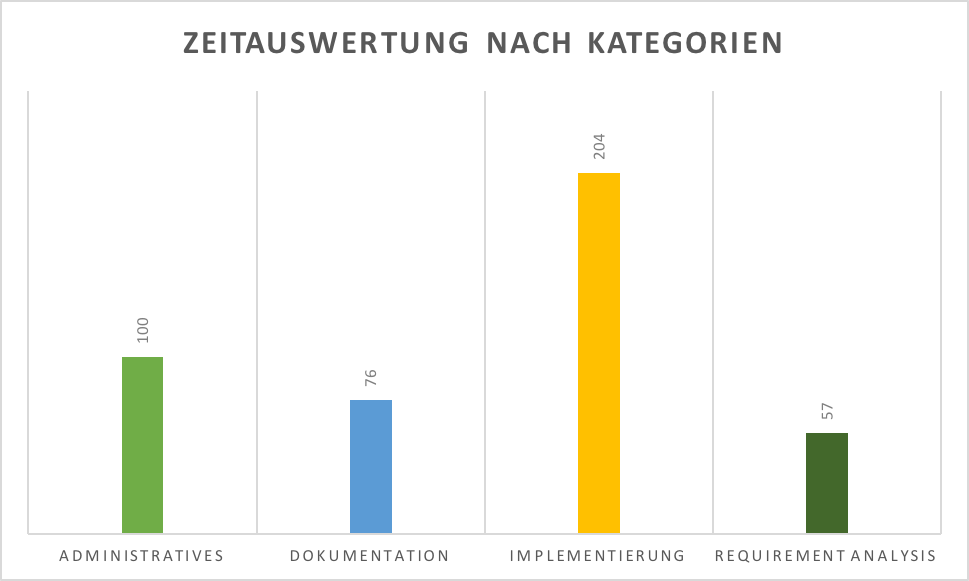
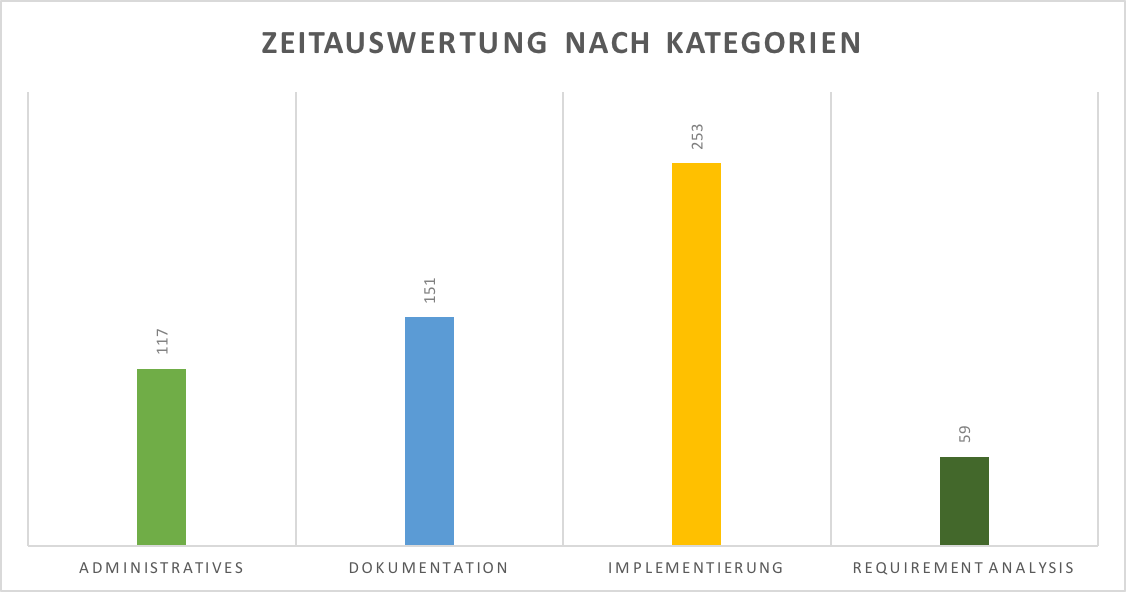
zeitauswertung aktualisiert

diff --git a/GVS_Documentation.tex b/GVS_Documentation.tex
@@ -1448,6 +1448,14 @@ eprint=false
 		\caption{Zeitauswertung Kategorien}
 		\label{zeitauswertung-kategorien}
 	\end{figure}
+
+	\section{Auswertung Soll - Ist Zeit}
+	\begin{figure}[h!]
+		\centering
+		\includegraphics[width=\linewidth]{assets/images/zeitauswertung-soll_ist}
+		\caption{Zeitauswertung Soll - Ist Zeit}
+		\label{zeitauswertung-soll_ist}
+	\end{figure}
 	
 	\chapter{Benutzerhandbuch} \label{ch:manual}
 	Nachfolgend findet sich das Benutzerhandbuch für GVS 2.0 inklusive einer Installationsanleitung für User der Library sowie für Entwickler.
